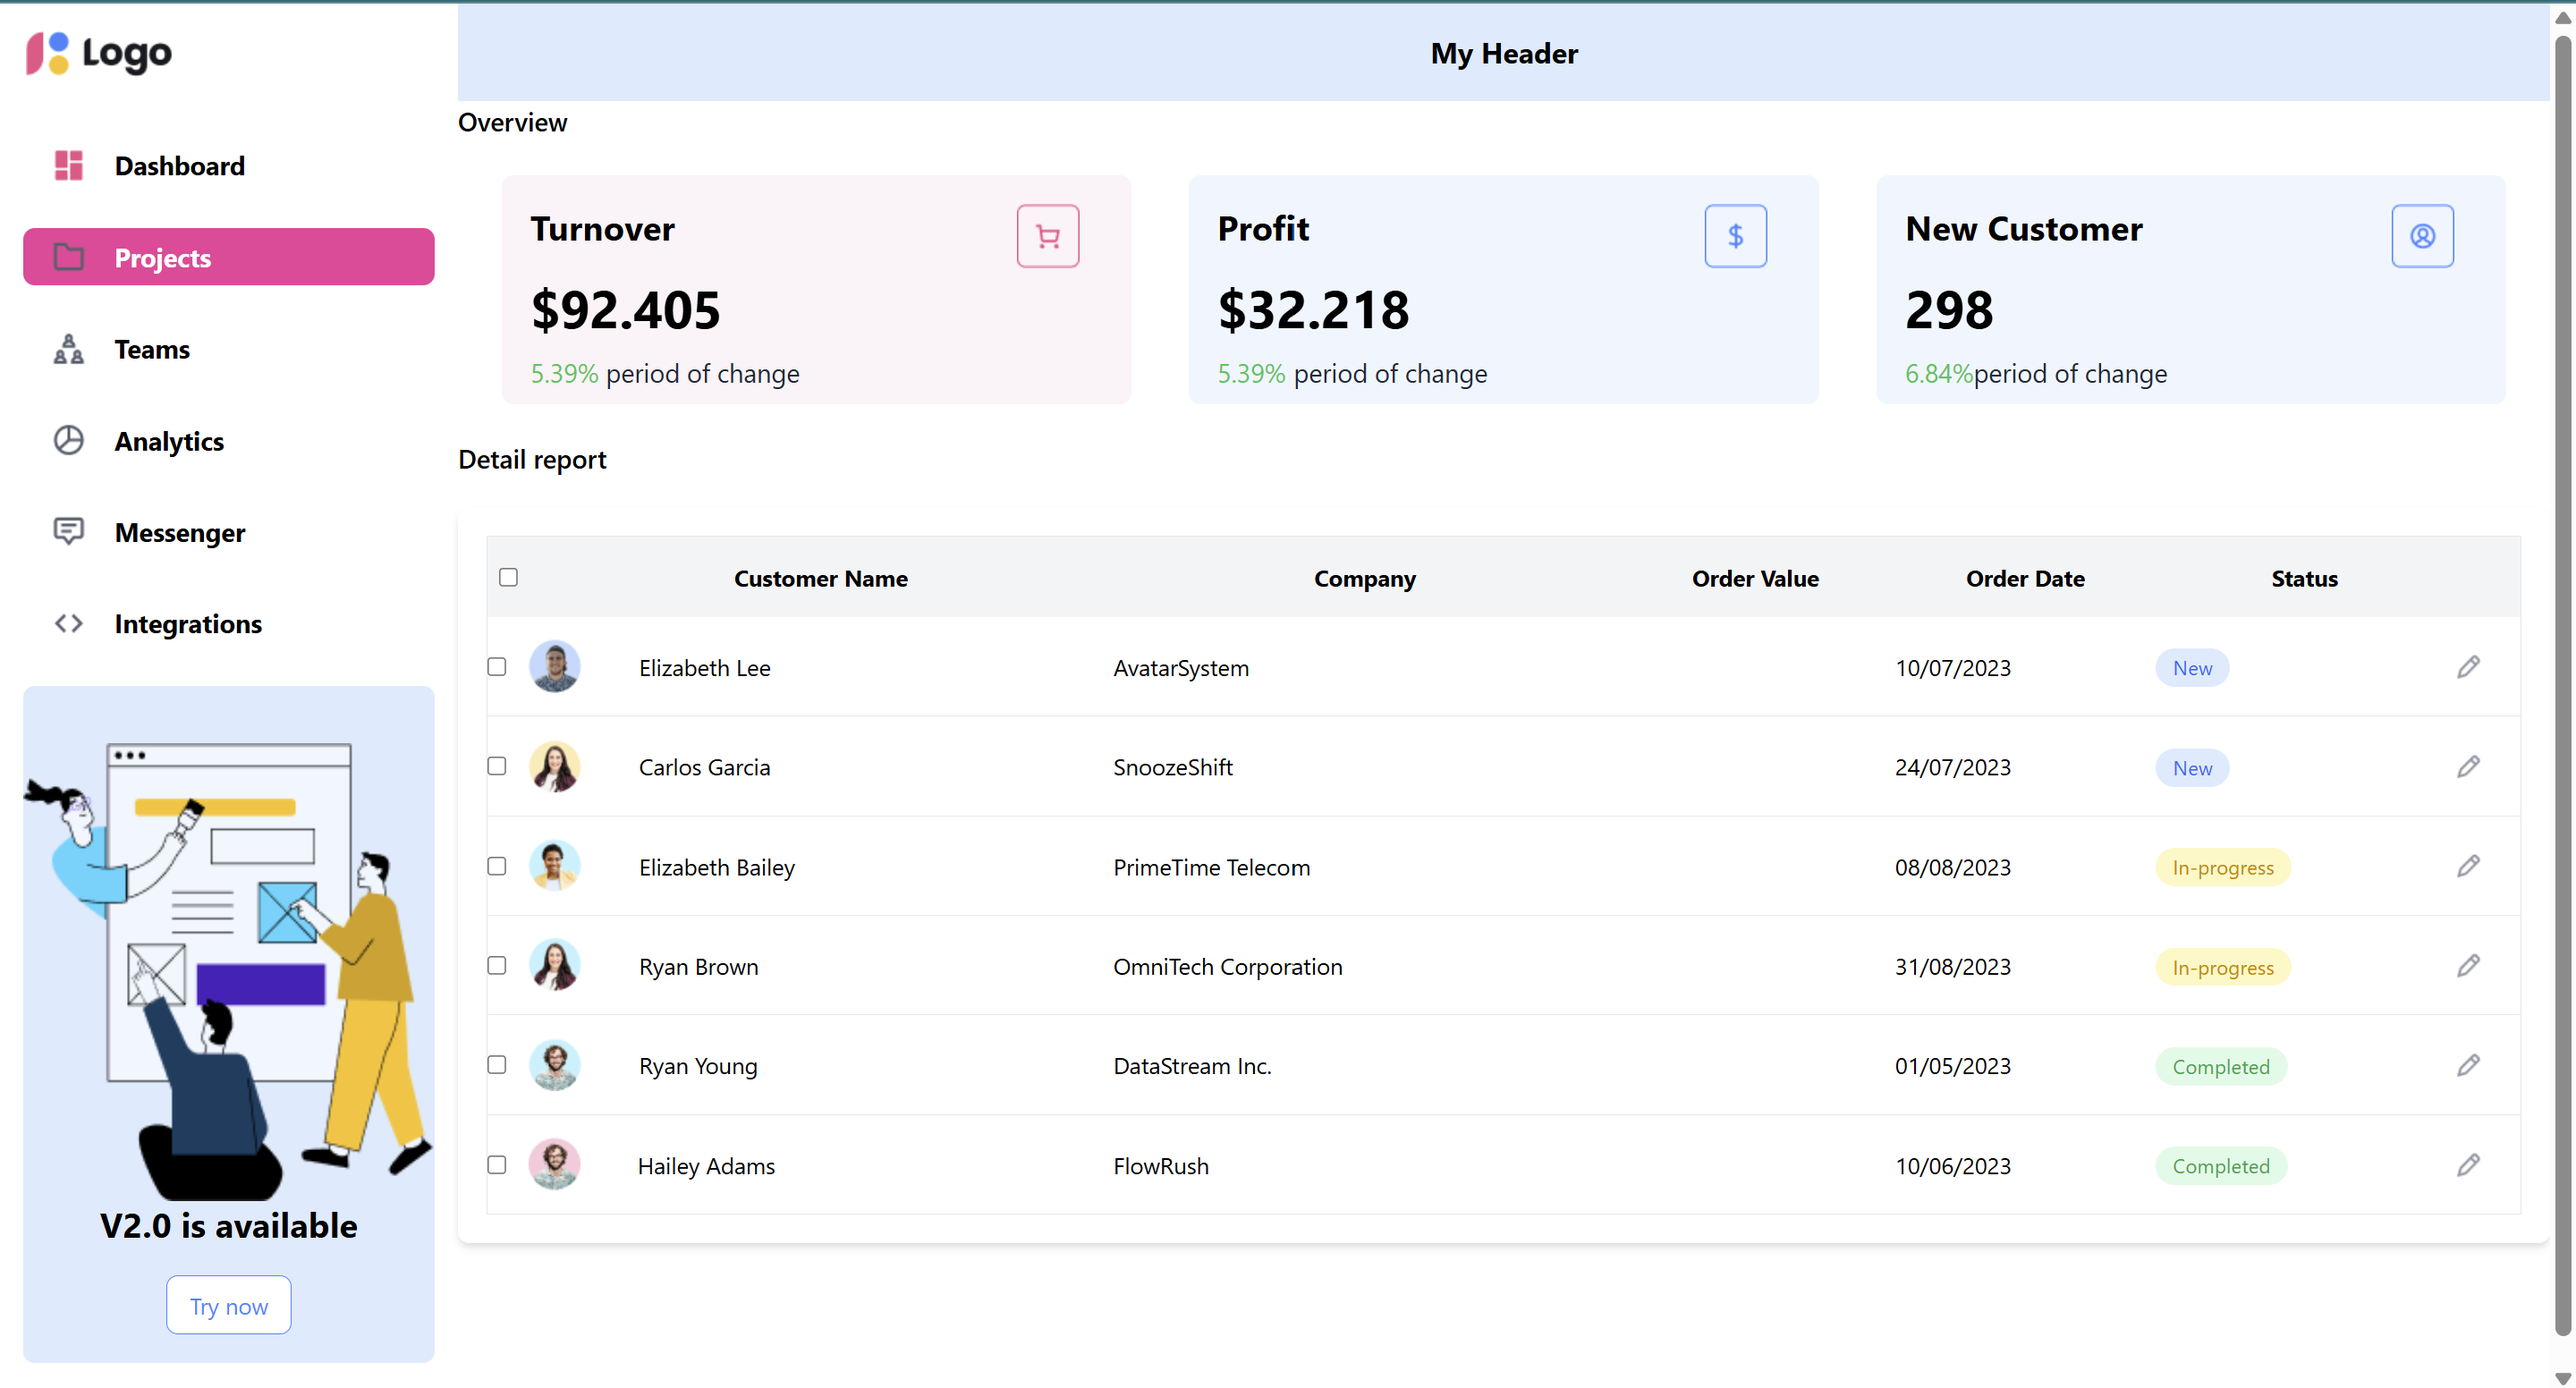
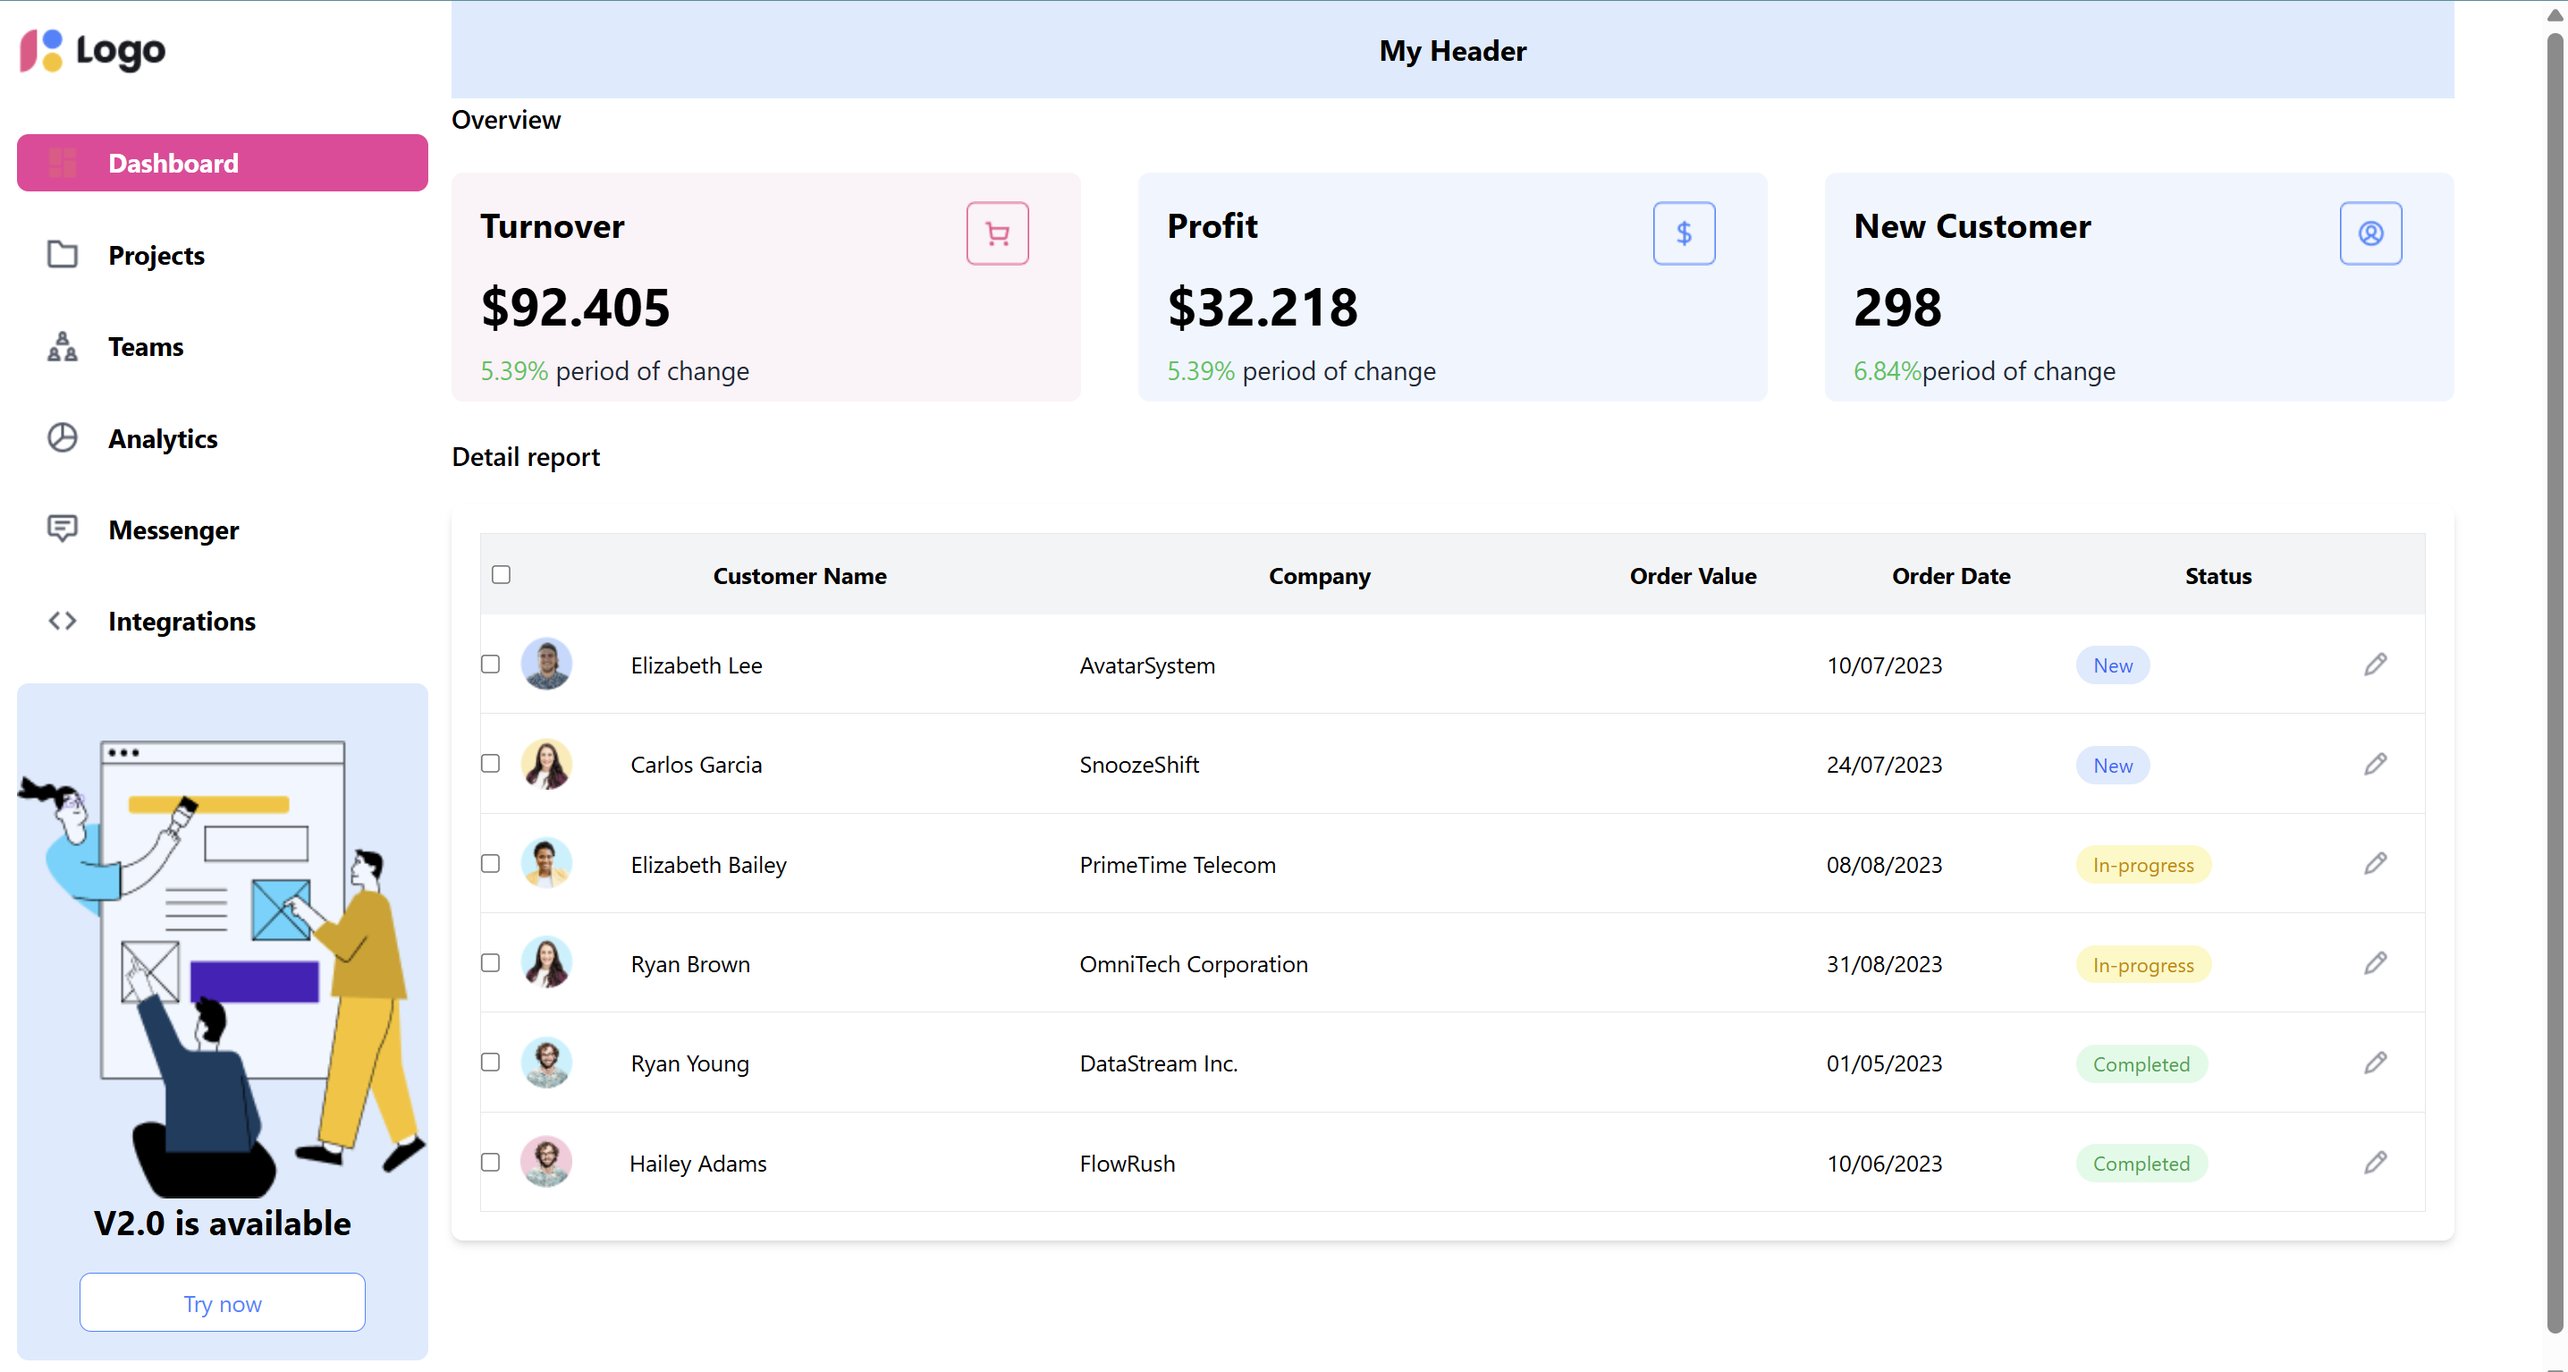
Bo sung commit 5 - is Active + NavLink

diff --git a/Lab6/src/components/MenuBar.jsx b/Lab6/src/components/MenuBar.jsx
@@ -11,7 +11,7 @@ export default function MenuBar() {
             <div
               className={`h-10 w-full rounded-lg flex items-center mb-6 ${
                 isActive ? "bg-pink-500" : "bg-white"
-              }`} // Thêm mb-6 để tạo khoảng cách
+              }`}
             >
               <img src="/img/Squares four 1.png" alt="" className="ml-5" />
               <span
